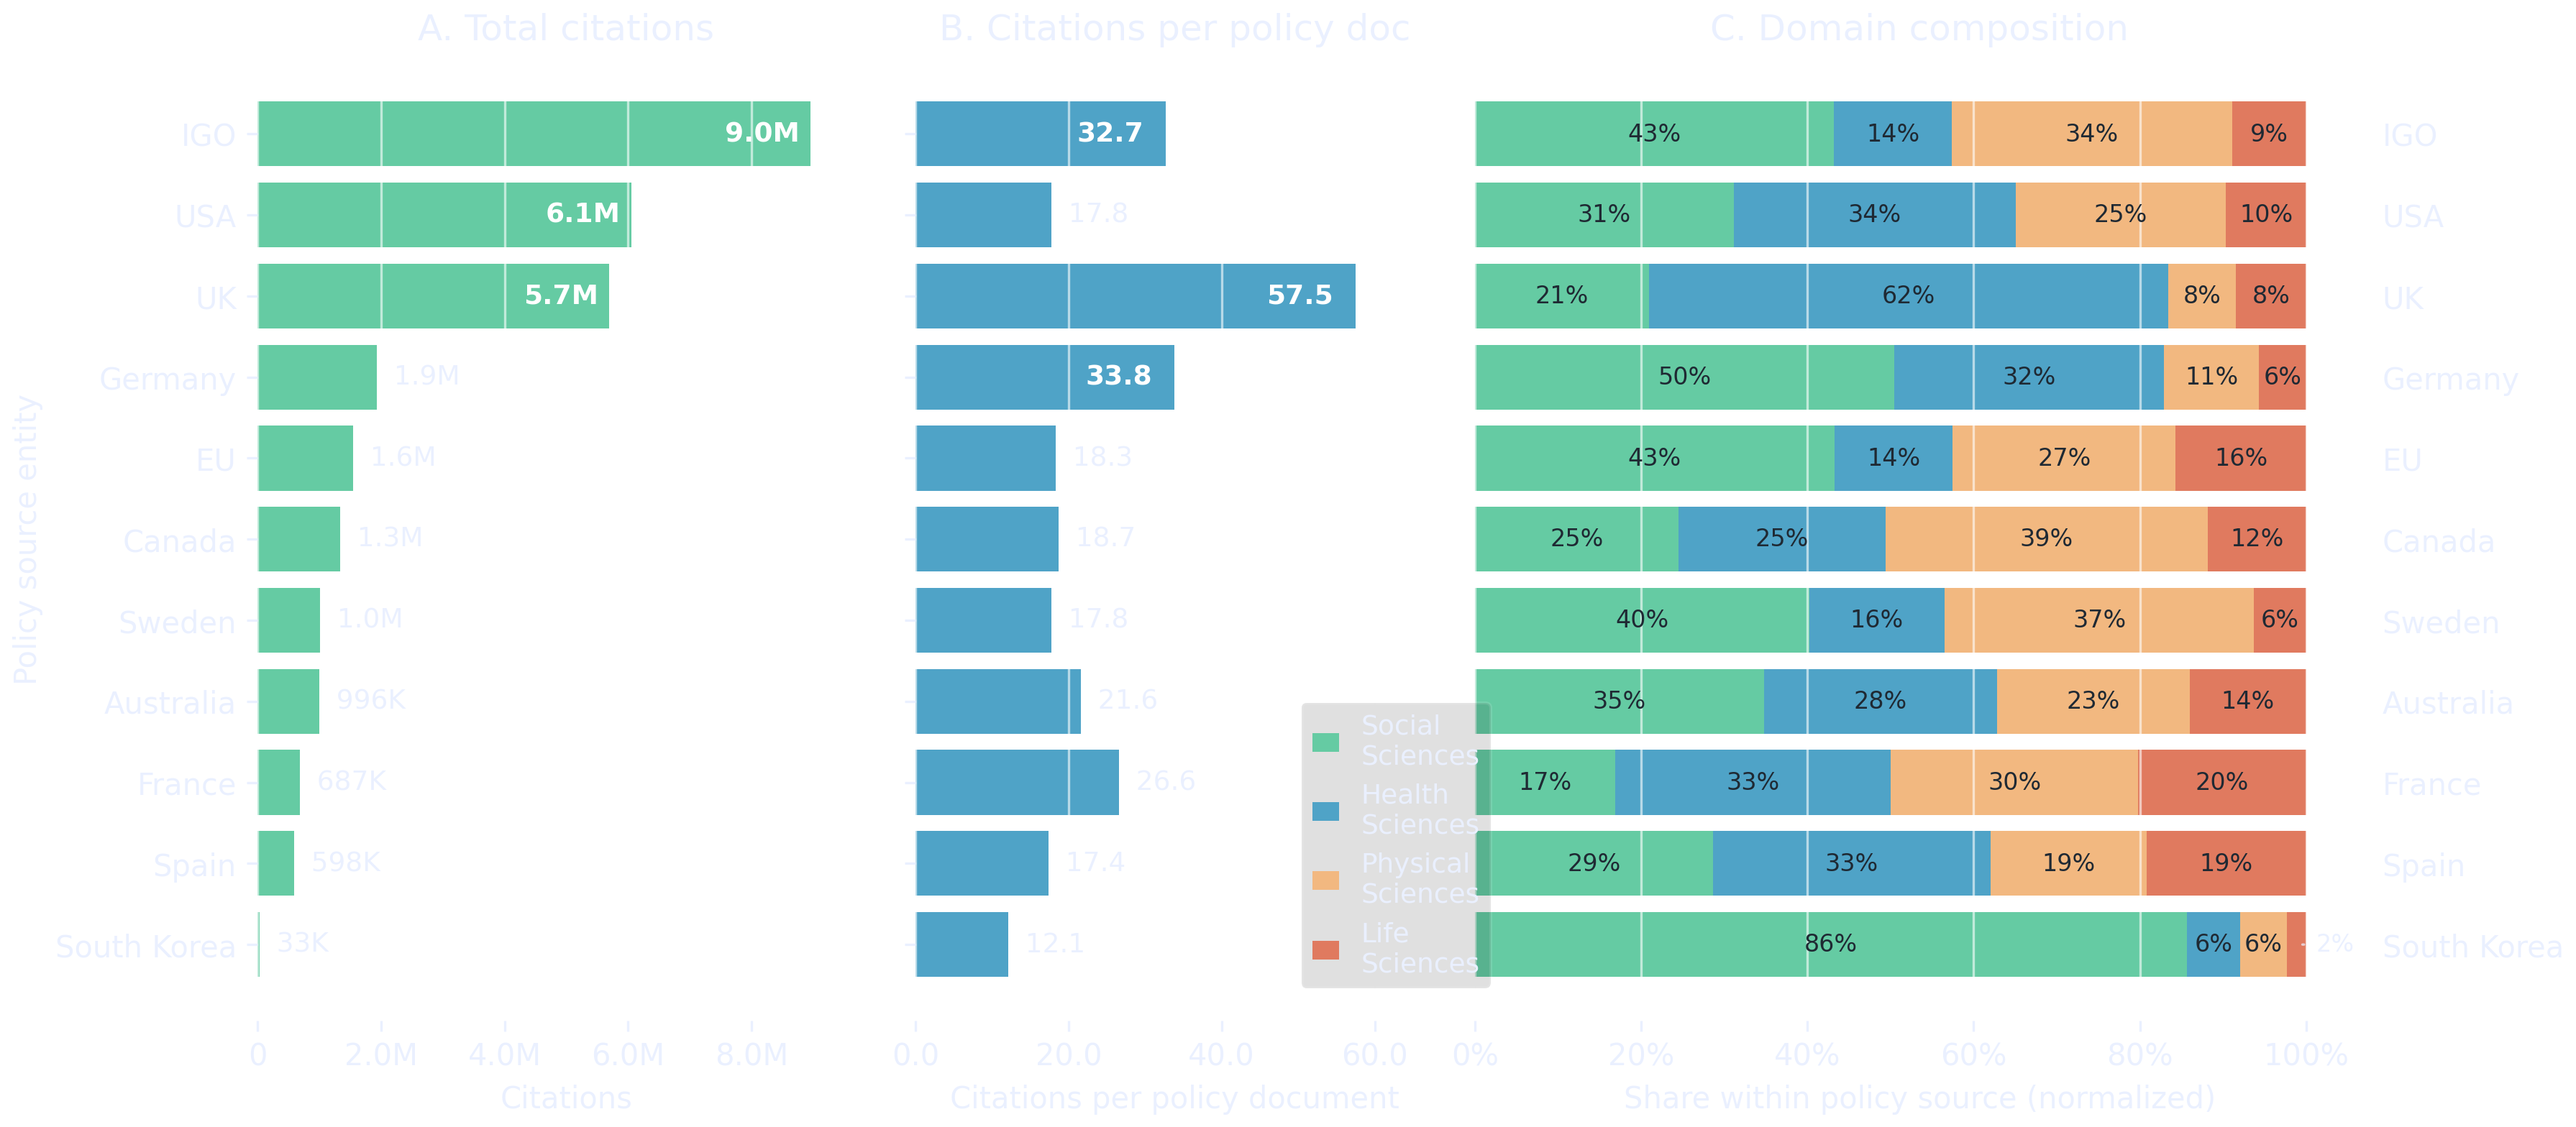
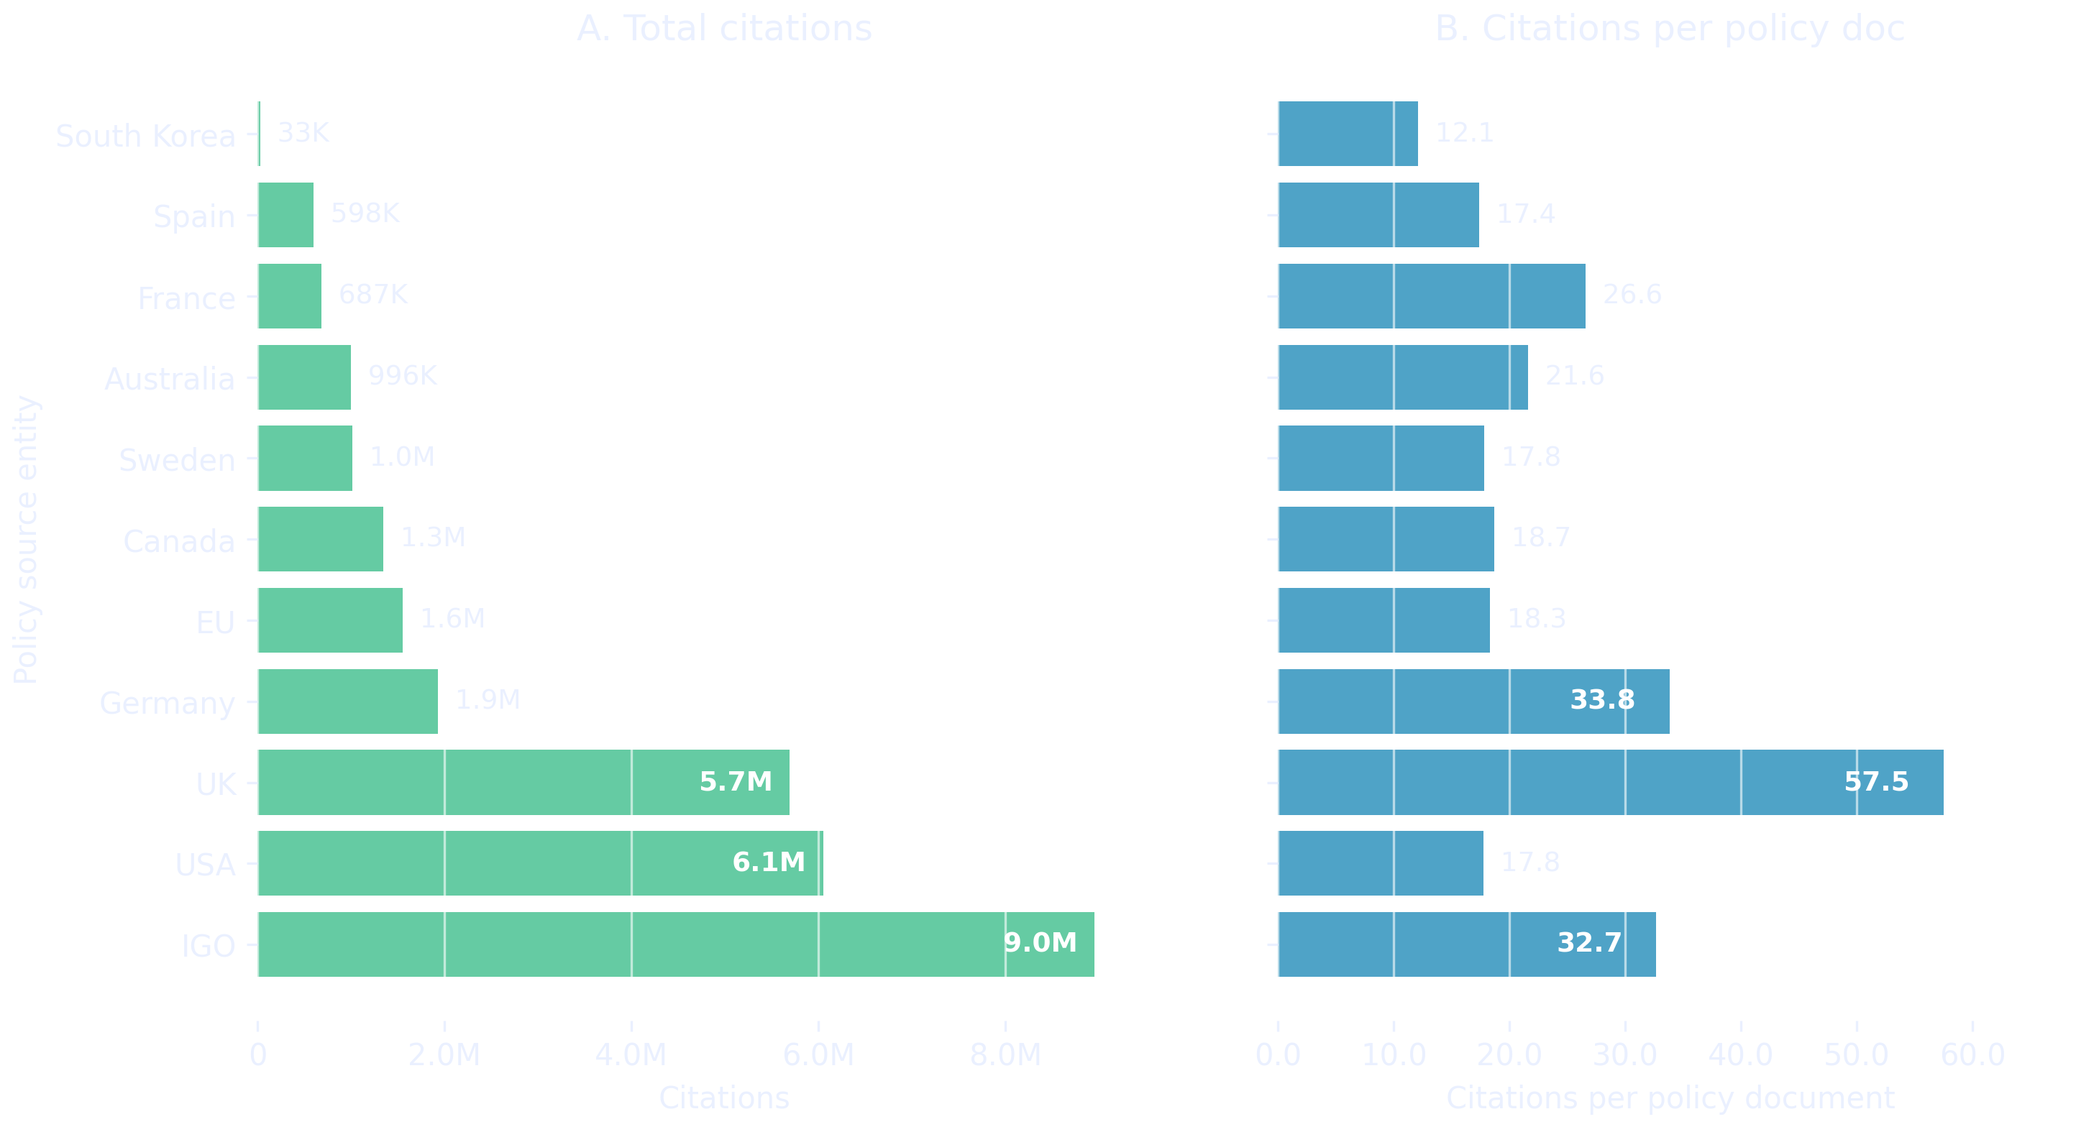
Update landing lite figures and copy

diff --git a/index.html b/index.html
@@ -155,7 +155,7 @@
               <img
                 src="Assets/Landing/korea_flows.png"
                 data-i18n-attr="alt:fig.korea.alt"
-                alt="한국 정책–연구의 두 방향 흐름(유입/조달; 상위 10개)"
+                alt="한국 정책–연구 흐름(유입/조달)과 기대치 대비 비교(상위 10개)"
                 loading="lazy"
               />
             </figure>
@@ -173,7 +173,7 @@
               <img
                 src="Assets/Landing/country_citations_top10.png"
                 data-i18n-attr="alt:fig.hub.alt"
-                alt="정책 출처 엔티티별 정책 인용(상위 10개+한국)"
+                alt="정책 출처 엔티티별 정책 인용(총량 vs 문헌당; 상위 10개+한국)"
                 loading="lazy"
               />
             </figure>
@@ -210,9 +210,9 @@
         <div class="promo-scrolly__steps" data-i18n-attr="aria-label:story.steps.aria" aria-label="스토리 단계">
           <div class="promo-step is-active" data-figure="korea" aria-current="step">
             <p class="promo-step__kicker" data-i18n="story.korea.kicker">1 · 거울</p>
-            <h2 class="promo-step__title" data-i18n="story.korea.title">한국: 들어가는 길과 가져오는 길이 다르다</h2>
+            <h2 class="promo-step__title" data-i18n="story.korea.title">한국: 들어오는 근거와 끌어오는 근거는 다른 길을 탄다</h2>
             <p class="promo-step__body" data-i18n="story.korea.body">
-              한국 연구가 해외 정책에 인용되는 유입 경로는 영국·국제기구·미국 등 여러 허브로 분산되지만, 한국 정책이 근거로 끌어오는 조달 경로는 미국 비중이 절반 이상으로 더 집중된다. 같은 “한국”이라도 들어오는 길과 가져오는 길의 구조가 다르다.
+              유입은 영국·국제기구·미국 등으로 분산되지만, 한국 정책의 조달은 미국 쏠림이 예상보다도 더 크다. “들어오는 길”과 “끌어오는 길”이 애초에 같은 지도가 아니다.
             </p>
           </div>
 
@@ -228,7 +228,7 @@
             <p class="promo-step__kicker" data-i18n="story.hub.kicker">3 · 허브</p>
             <h2 class="promo-step__title" data-i18n="story.hub.title">정책 근거는 소수 출처에 축적된다</h2>
             <p class="promo-step__body" data-i18n="story.hub.body">
-              정책 인용의 총량은 국제기구(IGO), 미국, 영국, EU 등 소수 출처 엔티티에 크게 집중된다. 상위권 이후 빠르게 줄어드는 분포는 “허브”가 감각이 아니라 정량적 사실임을 보여준다.
+              총량만 보면 국제기구(IGO), 미국, 영국, EU 등 소수 출처로 쏠린다. 문헌당 인용으로 보면 순위가 살짝 바뀌어 “많이”와 “진하게”가 꼭 같진 않다.
             </p>
           </div>
 
@@ -236,7 +236,7 @@
             <p class="promo-step__kicker" data-i18n="story.domain.kicker">4 · 편중</p>
             <h2 class="promo-step__title" data-i18n="story.domain.title">많이 인용하지만, “모든 과학”을 인용하진 않는다</h2>
             <p class="promo-step__body" data-i18n="story.domain.body">
-              정책 인용은 사회과학이 가장 큰 비중을 차지하고, 보건·물리과학이 뒤를 잇는다. “정책이 과학을 많이 쓴다”는 말이 곧바로 “다양한 과학을 고르게 쓴다”는 뜻은 아니다.
+              정책 인용은 사회과학 비중이 가장 크고, 보건·물리과학이 뒤를 잇는다. 다만 필드(세부 분류)가 비어 “기타/미분류”로 남는 인용도 생각보다 많다.
             </p>
           </div>
 

diff --git a/Assets/Site/promo.js b/Assets/Site/promo.js
@@ -57,18 +57,18 @@
     "intro.stat.coverage.value": "97.6%",
     "intro.meta.snapshot": "Data snapshot: Overton 2025.02 · OpenAlex 2025.06 · DOI-based matching",
     "intro.meta.link": "Scroll the story",
-    "fig.korea.alt": "Korea policy–research flows in two directions (inbound/sourcing; top 10)",
+    "fig.korea.alt": "Korea policy–research flows (inbound/sourcing) with expected-baseline comparison (top 10)",
     "fig.network.alt":
       "Policy–research evidence flow network (top 50 nodes; top-3 inbound/outbound links per node)",
-    "fig.hub.alt": "Policy citations by policy source entity (top 10 + Korea)",
+    "fig.hub.alt": "Policy citations by policy source entity (total vs per-document; top 10 + Korea)",
     "fig.domain.alt": "Policy citations by domain (top 10)",
     "fig.topics.alt": "Topics: citation intensity vs recency",
     "fig.pubyear.alt": "Policy citations, document counts, and average citations per document by publication year",
     "story.steps.aria": "Story steps",
     "story.korea.kicker": "1 · Mirror",
-    "story.korea.title": "Korea: inbound and sourcing paths diverge",
+    "story.korea.title": "Korea: inbound and sourcing take different routes",
     "story.korea.body":
-      "Inbound citations of Korean research are distributed across multiple hubs (UK, IGOs, US), while Korea’s sourcing is more concentrated—over half of outbound citations point to the United States. The inbound and sourcing paths diverge.",
+      "Inbound citations of Korean research spread across multiple hubs, while Korea’s sourcing is far more concentrated—more so than an expected baseline would suggest. The map for “what comes in” is not the same as the map for “what gets pulled in.”",
     "story.network.kicker": "2 · Map",
     "story.network.title": "Evidence spreads via transfers, not direct flights",
     "story.network.body":
@@ -76,11 +76,11 @@
     "story.hub.kicker": "3 · Hubs",
     "story.hub.title": "Policy evidence accumulates in a few sources",
     "story.hub.body":
-      "Total policy citations concentrate in a small set of source entities—IGOs, the United States, the United Kingdom, and the EU—with a steep drop after the top tier.",
+      "By total volume, citations concentrate in a small set of sources (IGOs, the US, the UK, the EU). But per-document intensity reshuffles the ranking slightly—“more” and “denser” are not always the same.",
     "story.domain.kicker": "4 · Skew",
     "story.domain.title": "High volume doesn’t mean citing all science",
     "story.domain.body":
-      "Social Sciences account for the largest share of policy citations, followed by Health and Physical Sciences. High volume does not imply broad coverage; demand concentrates in a few domains.",
+      "Social Sciences dominate policy citations, followed by Health and Physical Sciences. A non-trivial slice also stays in “other / unclassified” because field-level tags are missing.",
     "story.topics.kicker": "5 · Pace",
     "story.topics.title": "Mature and fast-rising agendas move differently",
     "story.topics.body":
